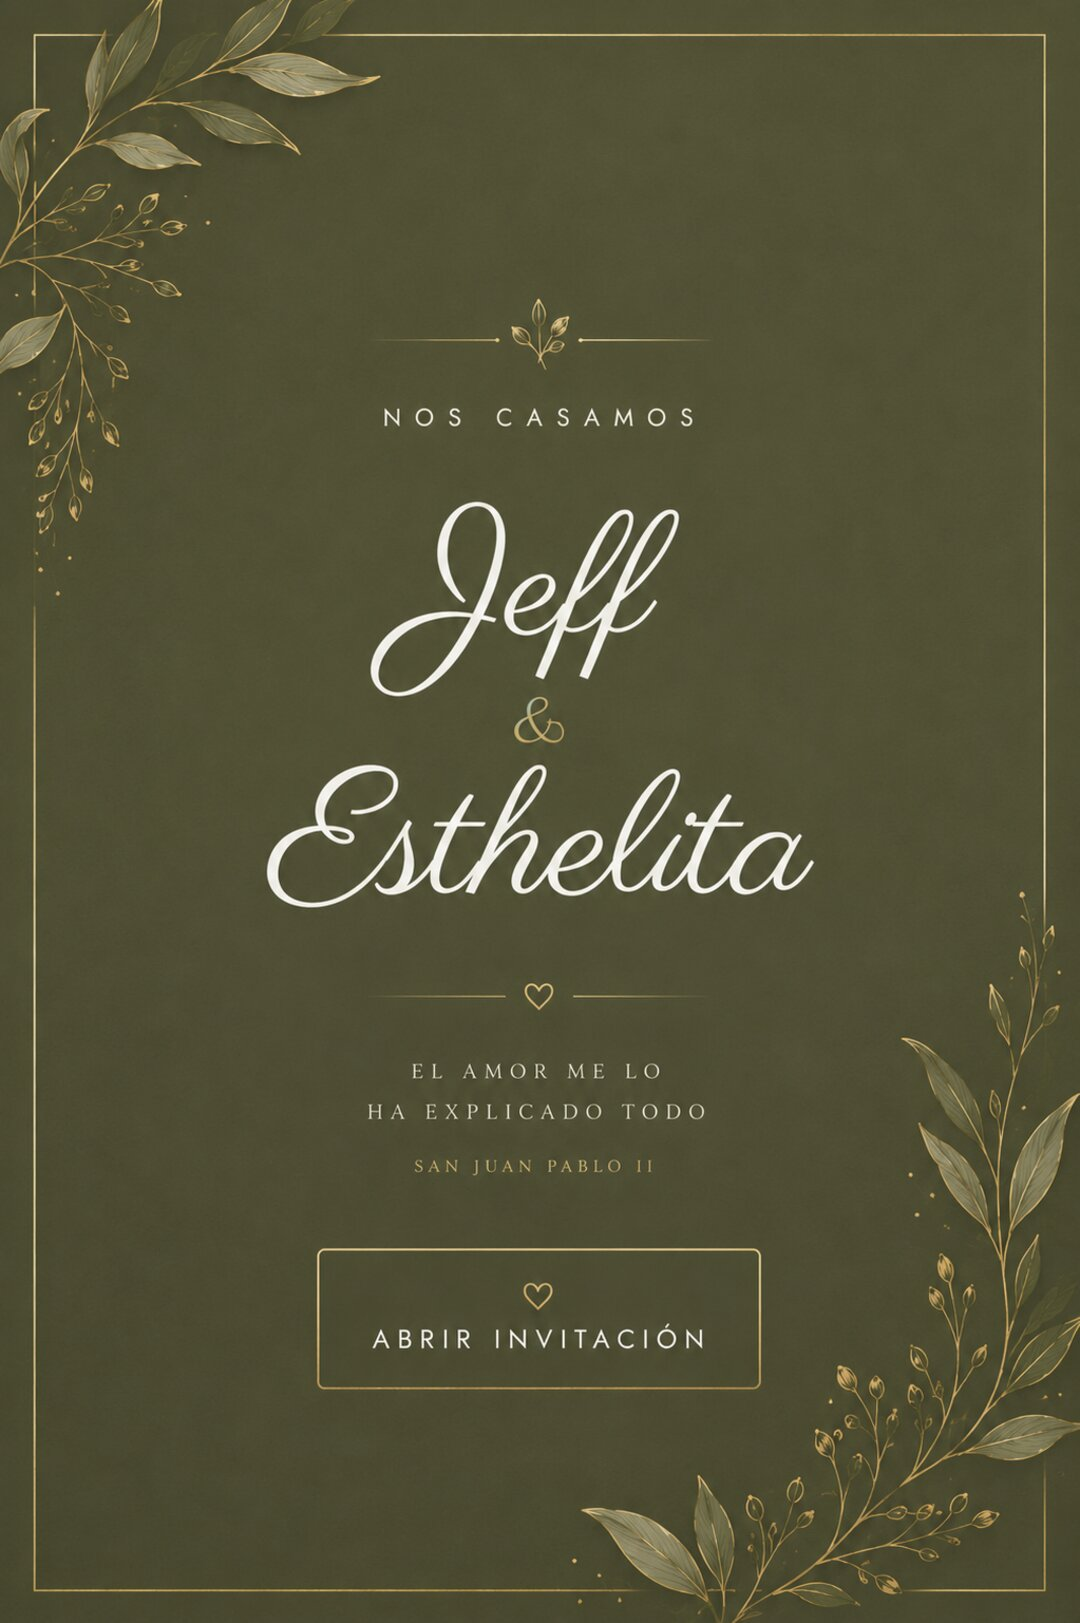
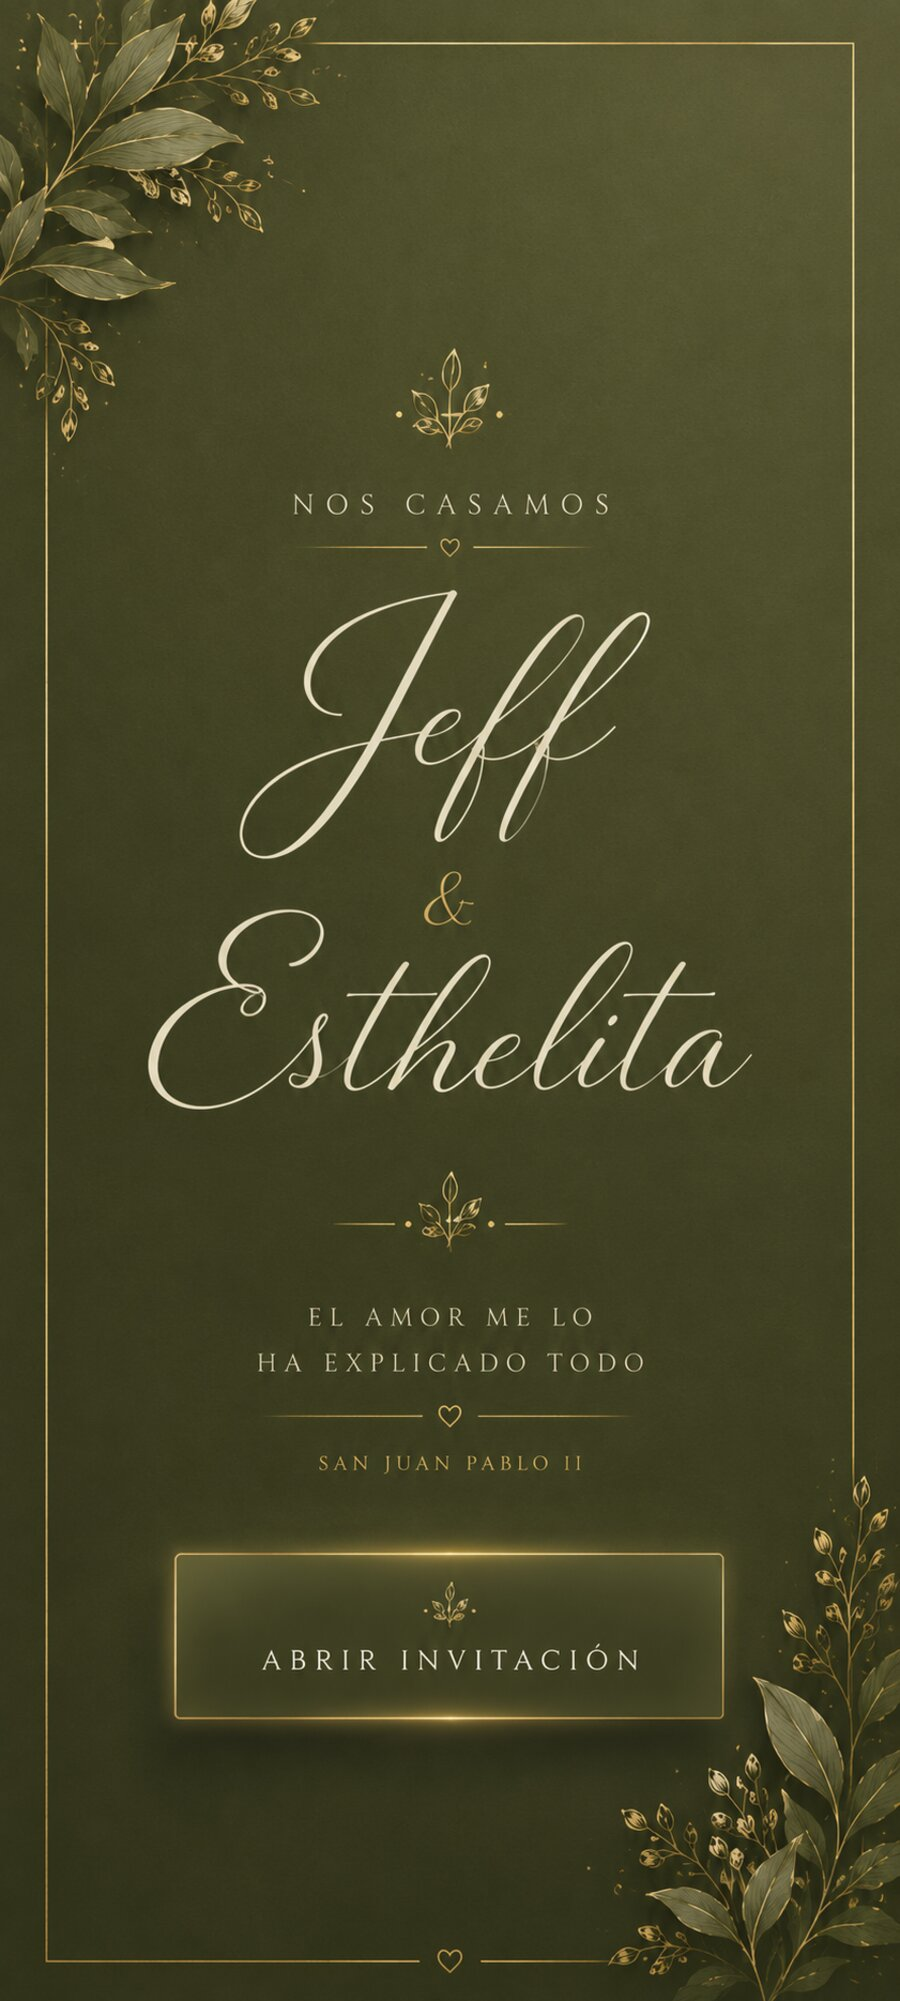
Portada de apertura a pantalla completa, sin barras (imagen mas alargada)

diff --git a/invitacioncivil/index.html b/invitacioncivil/index.html
@@ -186,17 +186,14 @@
   /* ---------- pantalla de apertura ---------- */
   .apertura{
     position:fixed;inset:0;z-index:50;
-    display:flex;align-items:center;justify-content:center;
     overflow:hidden;background:var(--oliva);
+    max-width:640px;margin:0 auto;
     transition:opacity .9s ease,visibility .9s ease;
   }
   .apertura.fuera{opacity:0;visibility:hidden}
-  /* caja que conserva siempre la proporción exacta de la imagen (1023x1537),
-     sin recortes, sea cual sea el tamaño de pantalla */
+  /* la imagen cubre TODA la pantalla (proporción ~9:20, pensada para móvil) */
   .apertura-marco{
-    position:relative;
-    width:min(100vw, calc(100dvh * 1023 / 1537));
-    height:min(100dvh, calc(100vw * 1537 / 1023));
+    position:relative;width:100%;height:100%;
   }
   .apertura-img{
     position:absolute;inset:0;width:100%;height:100%;
@@ -205,7 +202,7 @@
   }
   .abrir{
     position:absolute;
-    left:29%;right:29.5%;top:76.4%;bottom:14.4%;
+    left:19%;right:19.6%;top:78%;bottom:13.6%;
     background:none;border:none;padding:0;margin:0;
     cursor:pointer;-webkit-tap-highlight-color:transparent;
     border-radius:4px;
@@ -243,23 +240,31 @@
   .petalos.activo{opacity:1}
   .petalo{
     position:absolute;top:-8vh;
+    opacity:0;
     animation:caer linear infinite;
-    will-change:transform;
-    filter:drop-shadow(0 2px 4px rgba(46,50,38,.18));
+    will-change:transform,opacity;
+    filter:drop-shadow(0 2px 3px rgba(46,50,38,.10));
   }
   .petalo i{
     display:block;width:100%;height:100%;
     background-repeat:no-repeat;background-size:contain;
-    animation:mecer ease-in-out infinite alternate;
+    animation:aletear ease-in-out infinite;
     transform-origin:center;
   }
+  /* caída con deriva zigzag (no una línea recta) para simular viento real */
   @keyframes caer{
-    from{transform:translateY(-10vh) rotate(0deg)}
-    to{transform:translateY(112vh) rotate(var(--giro,320deg))}
+    0%{   transform:translate(0,-10vh) rotate(0deg); opacity:0; }
+    6%{   opacity:var(--op,.55); }
+    22%{  transform:translate(var(--d1,-22px),14vh) rotate(calc(var(--giro,320deg) * .18)); }
+    45%{  transform:translate(var(--d2,18px),46vh) rotate(calc(var(--giro,320deg) * .48)); }
+    68%{  transform:translate(var(--d3,-16px),76vh) rotate(calc(var(--giro,320deg) * .76)); }
+    88%{  transform:translate(var(--d4,10px),100vh) rotate(calc(var(--giro,320deg) * .94)); opacity:var(--op,.55); }
+    100%{ transform:translate(var(--d5,4px),114vh) rotate(var(--giro,320deg)); opacity:0; }
   }
-  @keyframes mecer{
-    from{transform:rotate(-14deg) translateX(-10px)}
-    to{transform:rotate(14deg) translateX(10px)}
+  /* aleteo: el pétalo se "adelgaza" al girar sobre su eje, como una hoja real */
+  @keyframes aletear{
+    0%,100%{ transform:scaleX(1) rotate(-10deg); }
+    50%{ transform:scaleX(.4) rotate(10deg); }
   }
 
   /* ---------- entrada ---------- */
@@ -414,17 +419,27 @@
     ];
     for (let i = 0; i < 22; i++){
       const p = document.createElement('span');
-      const ancho = 16 + Math.random() * 14;
+      const ancho = 14 + Math.random() * 13;
       p.className = 'petalo';
       p.style.left = (Math.random() * 100) + 'vw';
       p.style.width = ancho + 'px';
       p.style.height = (ancho * 1.15) + 'px';
-      p.style.setProperty('--giro', (280 + Math.random() * 260) + 'deg');
-      p.style.animationDuration = (11 + Math.random() * 10) + 's';
-      p.style.animationDelay = (-Math.random() * 14) + 's';
+      // deriva zigzag: cada pétalo cae con un vaivén distinto, como el viento real
+      const amp = 16 + Math.random() * 26;
+      p.style.setProperty('--d1', (-amp + Math.random()*10) + 'px');
+      p.style.setProperty('--d2', (amp - Math.random()*10) + 'px');
+      p.style.setProperty('--d3', (-amp*0.7 + Math.random()*8) + 'px');
+      p.style.setProperty('--d4', (amp*0.5 - Math.random()*8) + 'px');
+      p.style.setProperty('--d5', (Math.random()*14 - 7) + 'px');
+      p.style.setProperty('--giro', (220 + Math.random() * 300) + 'deg');
+      // más transparentes: opacidad máxima entre .32 y .58
+      p.style.setProperty('--op', (0.32 + Math.random() * 0.26).toFixed(2));
+      p.style.animationDuration = (12 + Math.random() * 11) + 's';
+      p.style.animationDelay = (-Math.random() * 16) + 's';
+      p.style.animationTimingFunction = 'cubic-bezier(.42,0,.58,1)';
       const inner = document.createElement('i');
       inner.style.backgroundImage = "url(\"" + svgs[i % svgs.length] + "\")";
-      const swayDur = 2.4 + Math.random() * 1.8;
+      const swayDur = 1.8 + Math.random() * 1.6;
       inner.style.animationDuration = swayDur + 's';
       inner.style.animationDelay = (-Math.random() * swayDur) + 's';
       p.appendChild(inner);
